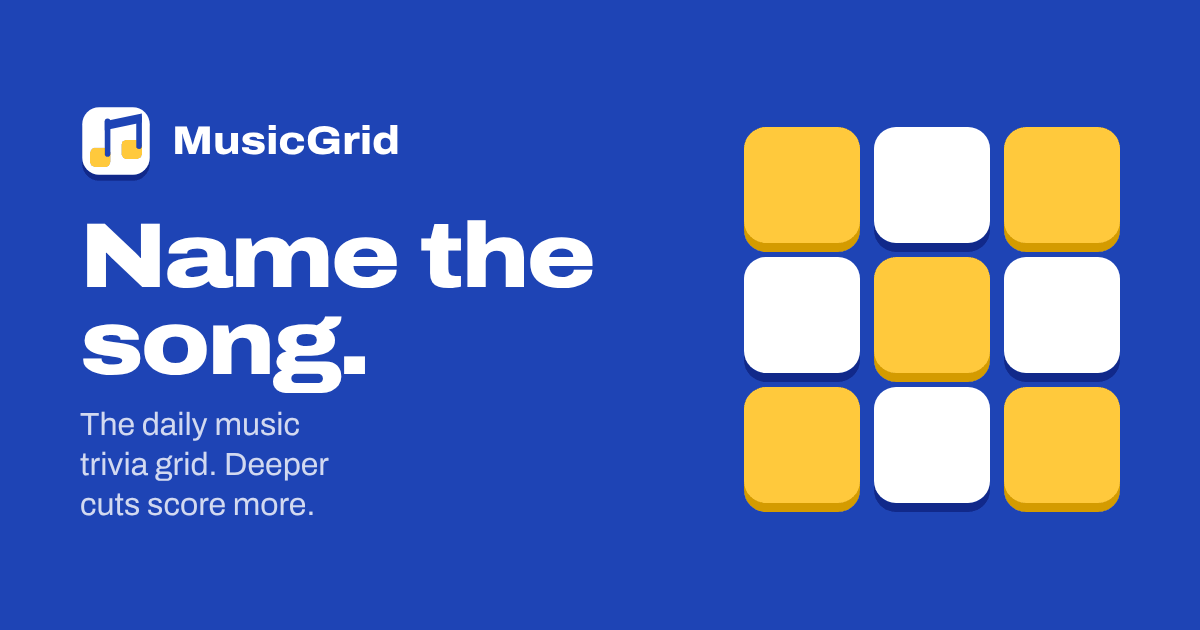
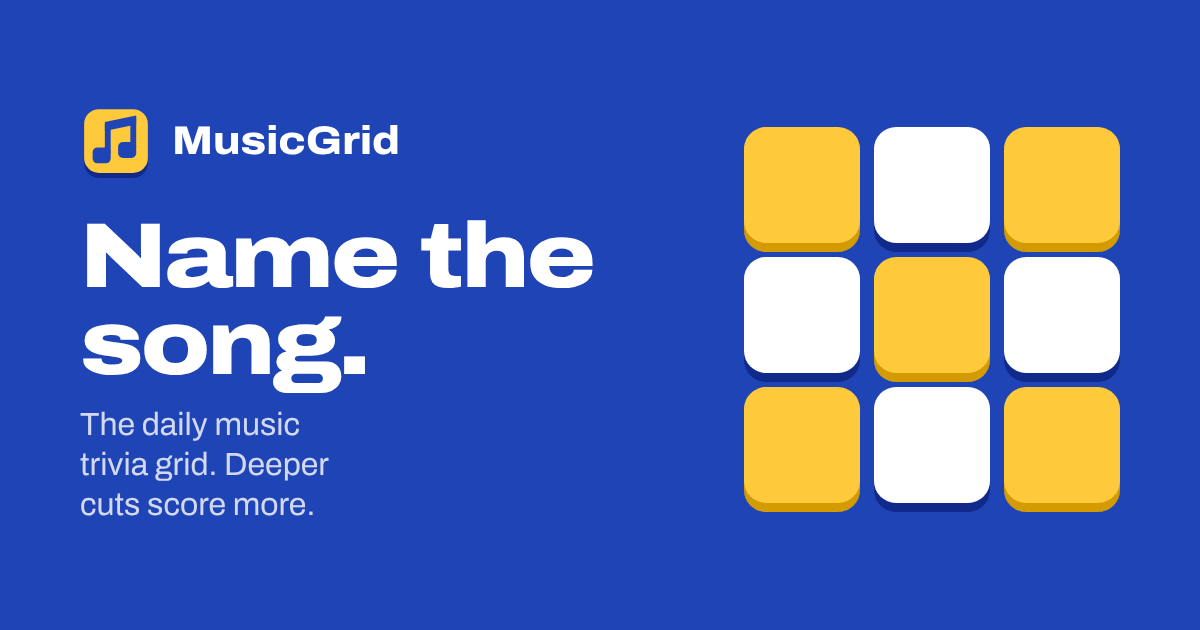
Add files via upload

Changed region(s): [[0.0617, 0.1508, 0.1233, 0.3016]]

diff --git a/index.html b/index.html
@@ -6,28 +6,28 @@
   <title>MusicGrid | The daily music trivia grid</title>
   <meta name="description" content="A daily music trivia game. Name a song for every square that fits both its artist and its category. Deeper cuts score more.">
   <meta name="theme-color" content="#1e44b5">
-  <link rel="icon" type="image/svg+xml" href="/img/logo.svg">
-  <link rel="icon" type="image/png" href="/img/favicon.png">
-  <link rel="apple-touch-icon" href="/img/apple-touch-icon.png">
+  <link rel="icon" href="/favicon.ico?v=2" sizes="32x32">
+  <link rel="icon" type="image/svg+xml" href="/img/logo.svg?v=2">
+  <link rel="apple-touch-icon" href="/img/apple-touch-icon.png?v=2">
   <link rel="preload" href="/fonts/archivo-latin.woff" as="font" type="font/woff" crossorigin>
   <link rel="preconnect" href="https://music-grid-io-42616e204fd3.herokuapp.com" crossorigin>
-  <link rel="stylesheet" href="/css/mg.css?v=2026102712">
+  <link rel="stylesheet" href="/css/mg.css?v=2026102713">
 
   <meta property="og:type" content="website">
   <meta property="og:url" content="https://musicgrid.stevenhester.com/">
   <meta property="og:title" content="MusicGrid">
   <meta property="og:description" content="The daily music trivia grid. Name a song for every square. Deeper cuts score more.">
-  <meta property="og:image" content="https://musicgrid.stevenhester.com/img/og-card.png">
+  <meta property="og:image" content="https://musicgrid.stevenhester.com/img/og-card.png?v=2">
   <meta name="twitter:card" content="summary_large_image">
   <meta name="twitter:title" content="MusicGrid">
   <meta name="twitter:description" content="The daily music trivia grid. Name a song for every square. Deeper cuts score more.">
-  <meta name="twitter:image" content="https://musicgrid.stevenhester.com/img/og-card.png">
+  <meta name="twitter:image" content="https://musicgrid.stevenhester.com/img/og-card.png?v=2">
 </head>
 <body data-mode="daily">
   <a class="skip" href="#board">Skip to the grid</a>
 
   <header class="topbar">
-    <a class="brand" href="/"><img src="/img/logo.svg" width="32" height="32" alt=""><span>MusicGrid</span></a>
+    <a class="brand" href="/"><img src="/img/logo.svg?v=2" width="32" height="32" alt=""><span>MusicGrid</span></a>
     <nav class="topnav" aria-label="Main">
       <a href="/" aria-current="page">Today</a>
       <a href="/browse">Browse</a>
@@ -183,6 +183,6 @@
   <div class="miss-flash" id="missFlash" aria-hidden="true"></div>
   <div class="sr-only" id="announcer" aria-live="assertive"></div>
 
-  <script type="module" src="/js/grid-game.js?v=2026102712"></script>
+  <script type="module" src="/js/grid-game.js?v=2026102713"></script>
 </body>
 </html>

diff --git a/play-custom-grid.html b/play-custom-grid.html
@@ -6,28 +6,28 @@
   <title>Custom grid | MusicGrid</title>
   <meta name="description" content="Your friend loves you so much they sent you their custom MusicGrid.">
   <meta name="theme-color" content="#1e44b5">
-  <link rel="icon" type="image/svg+xml" href="/img/logo.svg">
-  <link rel="icon" type="image/png" href="/img/favicon.png">
-  <link rel="apple-touch-icon" href="/img/apple-touch-icon.png">
+  <link rel="icon" href="/favicon.ico?v=2" sizes="32x32">
+  <link rel="icon" type="image/svg+xml" href="/img/logo.svg?v=2">
+  <link rel="apple-touch-icon" href="/img/apple-touch-icon.png?v=2">
   <link rel="preload" href="/fonts/archivo-latin.woff" as="font" type="font/woff" crossorigin>
   <link rel="preconnect" href="https://music-grid-io-42616e204fd3.herokuapp.com" crossorigin>
-  <link rel="stylesheet" href="/css/mg.css?v=2026102712">
+  <link rel="stylesheet" href="/css/mg.css?v=2026102713">
 
   <meta property="og:type" content="website">
   <meta property="og:url" content="https://musicgrid.stevenhester.com/play-custom-grid">
   <meta property="og:title" content="Custom MusicGrid">
   <meta property="og:description" content="Your friend loves you so much they sent you their custom MusicGrid.">
-  <meta property="og:image" content="https://musicgrid.stevenhester.com/img/og-card.png">
+  <meta property="og:image" content="https://musicgrid.stevenhester.com/img/og-card.png?v=2">
   <meta name="twitter:card" content="summary_large_image">
   <meta name="twitter:title" content="Custom MusicGrid">
   <meta name="twitter:description" content="Your friend loves you so much they sent you their custom MusicGrid.">
-  <meta name="twitter:image" content="https://musicgrid.stevenhester.com/img/og-card.png">
+  <meta name="twitter:image" content="https://musicgrid.stevenhester.com/img/og-card.png?v=2">
 </head>
 <body data-mode="custom">
   <a class="skip" href="#board">Skip to the grid</a>
 
   <header class="topbar">
-    <a class="brand" href="/"><img src="/img/logo.svg" width="32" height="32" alt=""><span>MusicGrid</span></a>
+    <a class="brand" href="/"><img src="/img/logo.svg?v=2" width="32" height="32" alt=""><span>MusicGrid</span></a>
     <nav class="topnav" aria-label="Main">
       <a href="/">Today</a>
       <a href="/browse">Browse</a>
@@ -197,6 +197,6 @@
   <div class="miss-flash" id="missFlash" aria-hidden="true"></div>
   <div class="sr-only" id="announcer" aria-live="assertive"></div>
 
-  <script type="module" src="/js/grid-game.js?v=2026102712"></script>
+  <script type="module" src="/js/grid-game.js?v=2026102713"></script>
 </body>
 </html>

diff --git a/grid-builder/apple-music.html b/grid-builder/apple-music.html
@@ -6,15 +6,15 @@
   <title>Connect Apple Music | MusicGrid</title>
   <meta name="description" content="Connect Apple Music to build a MusicGrid from the artists you listen to most.">
   <meta name="theme-color" content="#1e44b5">
-  <link rel="icon" type="image/svg+xml" href="/img/logo.svg">
-  <link rel="icon" type="image/png" href="/img/favicon.png">
-  <link rel="apple-touch-icon" href="/img/apple-touch-icon.png">
+  <link rel="icon" href="/favicon.ico?v=2" sizes="32x32">
+  <link rel="icon" type="image/svg+xml" href="/img/logo.svg?v=2">
+  <link rel="apple-touch-icon" href="/img/apple-touch-icon.png?v=2">
   <link rel="preload" href="/fonts/archivo-latin.woff" as="font" type="font/woff" crossorigin>
-  <link rel="stylesheet" href="/css/mg.css?v=2026102712">
+  <link rel="stylesheet" href="/css/mg.css?v=2026102713">
 </head>
 <body>
   <header class="topbar">
-    <a class="brand" href="/"><img src="/img/logo.svg" width="32" height="32" alt=""><span>MusicGrid</span></a>
+    <a class="brand" href="/"><img src="/img/logo.svg?v=2" width="32" height="32" alt=""><span>MusicGrid</span></a>
     <nav class="topnav" aria-label="Main">
       <a href="/">Today</a>
       <a href="/browse">Browse</a>
@@ -42,6 +42,6 @@
   <footer class="foot">
     MusicGrid is made by <a href="https://www.stevenhester.com">Steven Hester</a> &amp; Andrew McWhorter. Song data from Spotify. Apple Music is a trademark of Apple Inc.
   </footer>
-  <script src="/js/gb-appleMusic.js?v=2026102712" type="module"></script>
+  <script src="/js/gb-appleMusic.js?v=2026102713" type="module"></script>
 </body>
 </html>

diff --git a/grid-builder/manual-artist-pick.html b/grid-builder/manual-artist-pick.html
@@ -6,15 +6,15 @@
   <title>Pick your artists | MusicGrid</title>
   <meta name="description" content="Pick any artists and build a custom MusicGrid to send to your friends. No Spotify account needed.">
   <meta name="theme-color" content="#1e44b5">
-  <link rel="icon" type="image/svg+xml" href="/img/logo.svg">
-  <link rel="icon" type="image/png" href="/img/favicon.png">
-  <link rel="apple-touch-icon" href="/img/apple-touch-icon.png">
+  <link rel="icon" href="/favicon.ico?v=2" sizes="32x32">
+  <link rel="icon" type="image/svg+xml" href="/img/logo.svg?v=2">
+  <link rel="apple-touch-icon" href="/img/apple-touch-icon.png?v=2">
   <link rel="preload" href="/fonts/archivo-latin.woff" as="font" type="font/woff" crossorigin>
-  <link rel="stylesheet" href="/css/mg.css?v=2026102712">
+  <link rel="stylesheet" href="/css/mg.css?v=2026102713">
 </head>
 <body data-source="search">
   <header class="topbar">
-    <a class="brand" href="/"><img src="/img/logo.svg" width="32" height="32" alt=""><span>MusicGrid</span></a>
+    <a class="brand" href="/"><img src="/img/logo.svg?v=2" width="32" height="32" alt=""><span>MusicGrid</span></a>
     <nav class="topnav" aria-label="Main">
       <a href="/">Today</a>
       <a href="/browse">Browse</a>
@@ -137,6 +137,6 @@
   <footer class="foot">
     MusicGrid is made by <a href="https://www.stevenhester.com">Steven Hester</a> &amp; Andrew McWhorter. Song data from Spotify.
   </footer>
-  <script src="/js/gb-artistSelect.js?v=2026102712"></script>
+  <script src="/js/gb-artistSelect.js?v=2026102713"></script>
 </body>
 </html>

diff --git a/browse.html b/browse.html
@@ -6,15 +6,15 @@
   <title>Browse grids | MusicGrid</title>
   <meta name="description" content="Play past MusicGrid daily grids and grids built by other players.">
   <meta name="theme-color" content="#1e44b5">
-  <link rel="icon" type="image/svg+xml" href="/img/logo.svg">
-  <link rel="icon" type="image/png" href="/img/favicon.png">
-  <link rel="apple-touch-icon" href="/img/apple-touch-icon.png">
+  <link rel="icon" href="/favicon.ico?v=2" sizes="32x32">
+  <link rel="icon" type="image/svg+xml" href="/img/logo.svg?v=2">
+  <link rel="apple-touch-icon" href="/img/apple-touch-icon.png?v=2">
   <link rel="preload" href="/fonts/archivo-latin.woff" as="font" type="font/woff" crossorigin>
-  <link rel="stylesheet" href="/css/mg.css?v=2026102712">
+  <link rel="stylesheet" href="/css/mg.css?v=2026102713">
 </head>
 <body>
   <header class="topbar">
-    <a class="brand" href="/"><img src="/img/logo.svg" width="32" height="32" alt=""><span>MusicGrid</span></a>
+    <a class="brand" href="/"><img src="/img/logo.svg?v=2" width="32" height="32" alt=""><span>MusicGrid</span></a>
     <nav class="topnav" aria-label="Main">
       <a href="/">Today</a>
       <a href="/browse" aria-current="page">Browse</a>
@@ -50,6 +50,6 @@
   <footer class="foot">
     MusicGrid is made by <a href="https://www.stevenhester.com">Steven Hester</a> &amp; Andrew McWhorter. Song data from Spotify.
   </footer>
-  <script type="module" src="/js/browse.js?v=2026102712"></script>
+  <script type="module" src="/js/browse.js?v=2026102713"></script>
 </body>
 </html>

diff --git a/grid-builder/spotify-login.html b/grid-builder/spotify-login.html
@@ -6,15 +6,15 @@
   <title>Connect Spotify | MusicGrid</title>
   <meta name="description" content="Connect Spotify to build a MusicGrid from your top artists.">
   <meta name="theme-color" content="#1e44b5">
-  <link rel="icon" type="image/svg+xml" href="/img/logo.svg">
-  <link rel="icon" type="image/png" href="/img/favicon.png">
-  <link rel="apple-touch-icon" href="/img/apple-touch-icon.png">
+  <link rel="icon" href="/favicon.ico?v=2" sizes="32x32">
+  <link rel="icon" type="image/svg+xml" href="/img/logo.svg?v=2">
+  <link rel="apple-touch-icon" href="/img/apple-touch-icon.png?v=2">
   <link rel="preload" href="/fonts/archivo-latin.woff" as="font" type="font/woff" crossorigin>
-  <link rel="stylesheet" href="/css/mg.css?v=2026102712">
+  <link rel="stylesheet" href="/css/mg.css?v=2026102713">
 </head>
 <body>
   <header class="topbar">
-    <a class="brand" href="/"><img src="/img/logo.svg" width="32" height="32" alt=""><span>MusicGrid</span></a>
+    <a class="brand" href="/"><img src="/img/logo.svg?v=2" width="32" height="32" alt=""><span>MusicGrid</span></a>
     <nav class="topnav" aria-label="Main">
       <a href="/">Today</a>
       <a href="/browse">Browse</a>
@@ -82,6 +82,6 @@
   <footer class="foot">
     MusicGrid is made by <a href="https://www.stevenhester.com">Steven Hester</a> &amp; Andrew McWhorter. Song data from Spotify.
   </footer>
-  <script src="/js/gb-spotifyLogin.js?v=2026102712" type="module"></script>
+  <script src="/js/gb-spotifyLogin.js?v=2026102713" type="module"></script>
 </body>
 </html>

diff --git a/stats.html b/stats.html
@@ -6,15 +6,15 @@
   <title>Your stats | MusicGrid</title>
   <meta name="description" content="Your MusicGrid streak, best score, perfect squares and every grid you've played.">
   <meta name="theme-color" content="#1e44b5">
-  <link rel="icon" type="image/svg+xml" href="/img/logo.svg">
-  <link rel="icon" type="image/png" href="/img/favicon.png">
-  <link rel="apple-touch-icon" href="/img/apple-touch-icon.png">
+  <link rel="icon" href="/favicon.ico?v=2" sizes="32x32">
+  <link rel="icon" type="image/svg+xml" href="/img/logo.svg?v=2">
+  <link rel="apple-touch-icon" href="/img/apple-touch-icon.png?v=2">
   <link rel="preload" href="/fonts/archivo-latin.woff" as="font" type="font/woff" crossorigin>
-  <link rel="stylesheet" href="/css/mg.css?v=2026102712">
+  <link rel="stylesheet" href="/css/mg.css?v=2026102713">
 </head>
 <body>
   <header class="topbar">
-    <a class="brand" href="/"><img src="/img/logo.svg" width="32" height="32" alt=""><span>MusicGrid</span></a>
+    <a class="brand" href="/"><img src="/img/logo.svg?v=2" width="32" height="32" alt=""><span>MusicGrid</span></a>
     <nav class="topnav" aria-label="Main">
       <a href="/">Today</a>
       <a href="/browse">Browse</a>
@@ -104,6 +104,6 @@
   <footer class="foot">
     MusicGrid is made by <a href="https://www.stevenhester.com">Steven Hester</a> &amp; Andrew McWhorter. Song data from Spotify.
   </footer>
-  <script type="module" src="/js/stats.js?v=2026102712"></script>
+  <script type="module" src="/js/stats.js?v=2026102713"></script>
 </body>
 </html>

diff --git a/grid-builder/artist-selection.html b/grid-builder/artist-selection.html
@@ -6,15 +6,15 @@
   <title>Build your grid | MusicGrid</title>
   <meta name="description" content="Rank your Spotify top artists and build a custom MusicGrid.">
   <meta name="theme-color" content="#1e44b5">
-  <link rel="icon" type="image/svg+xml" href="/img/logo.svg">
-  <link rel="icon" type="image/png" href="/img/favicon.png">
-  <link rel="apple-touch-icon" href="/img/apple-touch-icon.png">
+  <link rel="icon" href="/favicon.ico?v=2" sizes="32x32">
+  <link rel="icon" type="image/svg+xml" href="/img/logo.svg?v=2">
+  <link rel="apple-touch-icon" href="/img/apple-touch-icon.png?v=2">
   <link rel="preload" href="/fonts/archivo-latin.woff" as="font" type="font/woff" crossorigin>
-  <link rel="stylesheet" href="/css/mg.css?v=2026102712">
+  <link rel="stylesheet" href="/css/mg.css?v=2026102713">
 </head>
 <body>
   <header class="topbar">
-    <a class="brand" href="/"><img src="/img/logo.svg" width="32" height="32" alt=""><span>MusicGrid</span></a>
+    <a class="brand" href="/"><img src="/img/logo.svg?v=2" width="32" height="32" alt=""><span>MusicGrid</span></a>
     <nav class="topnav" aria-label="Main">
       <a href="/">Today</a>
       <a href="/browse">Browse</a>
@@ -145,6 +145,6 @@
   <footer class="foot">
     MusicGrid is made by <a href="https://www.stevenhester.com">Steven Hester</a> &amp; Andrew McWhorter. Song data from Spotify.
   </footer>
-  <script src="/js/gb-artistSelect.js?v=2026102712"></script>
+  <script src="/js/gb-artistSelect.js?v=2026102713"></script>
 </body>
 </html>

diff --git a/grid-builder/index.html b/grid-builder/index.html
@@ -6,15 +6,15 @@
   <title>Build a grid | MusicGrid</title>
   <meta name="description" content="Build a custom MusicGrid from your Spotify top artists and send it to your friends.">
   <meta name="theme-color" content="#1e44b5">
-  <link rel="icon" type="image/svg+xml" href="/img/logo.svg">
-  <link rel="icon" type="image/png" href="/img/favicon.png">
-  <link rel="apple-touch-icon" href="/img/apple-touch-icon.png">
+  <link rel="icon" href="/favicon.ico?v=2" sizes="32x32">
+  <link rel="icon" type="image/svg+xml" href="/img/logo.svg?v=2">
+  <link rel="apple-touch-icon" href="/img/apple-touch-icon.png?v=2">
   <link rel="preload" href="/fonts/archivo-latin.woff" as="font" type="font/woff" crossorigin>
-  <link rel="stylesheet" href="/css/mg.css?v=2026102712">
+  <link rel="stylesheet" href="/css/mg.css?v=2026102713">
 </head>
 <body>
   <header class="topbar">
-    <a class="brand" href="/"><img src="/img/logo.svg" width="32" height="32" alt=""><span>MusicGrid</span></a>
+    <a class="brand" href="/"><img src="/img/logo.svg?v=2" width="32" height="32" alt=""><span>MusicGrid</span></a>
     <nav class="topnav" aria-label="Main">
       <a href="/">Today</a>
       <a href="/browse">Browse</a>

diff --git a/404.html b/404.html
@@ -6,15 +6,15 @@
   <title>Page not found | MusicGrid</title>
   <meta name="description" content="This page doesn't exist.">
   <meta name="theme-color" content="#1e44b5">
-  <link rel="icon" type="image/svg+xml" href="/img/logo.svg">
-  <link rel="icon" type="image/png" href="/img/favicon.png">
-  <link rel="apple-touch-icon" href="/img/apple-touch-icon.png">
+  <link rel="icon" href="/favicon.ico?v=2" sizes="32x32">
+  <link rel="icon" type="image/svg+xml" href="/img/logo.svg?v=2">
+  <link rel="apple-touch-icon" href="/img/apple-touch-icon.png?v=2">
   <link rel="preload" href="/fonts/archivo-latin.woff" as="font" type="font/woff" crossorigin>
-  <link rel="stylesheet" href="/css/mg.css?v=2026102712">
+  <link rel="stylesheet" href="/css/mg.css?v=2026102713">
 </head>
 <body>
   <header class="topbar">
-    <a class="brand" href="/"><img src="/img/logo.svg" width="32" height="32" alt=""><span>MusicGrid</span></a>
+    <a class="brand" href="/"><img src="/img/logo.svg?v=2" width="32" height="32" alt=""><span>MusicGrid</span></a>
     <nav class="topnav" aria-label="Main">
       <a href="/">Today</a>
       <a href="/browse">Browse</a>

diff --git a/js/stats.js b/js/stats.js
@@ -84,11 +84,13 @@ function cellOrder(a, b) {
   return ca.localeCompare(cb, undefined, { numeric: true }) || aa.localeCompare(ab, undefined, { numeric: true });
 }
 
+// Same shades as the share text; a square solved in easy mode is a circle
 function shade(cell) {
   if (cell.status === "solved") {
-    if (cell.points >= 10) return "deep";
-    if (cell.points >= 8) return "on";
-    return "easy";
+    const ez = cell.easy ? " ez" : "";
+    if (cell.points >= 10) return `deep${ez}`;
+    if (cell.points >= 8) return `on${ez}`;
+    return `low${ez}`;
   }
   return cell.misses.length ? "miss" : "";
 }
@@ -104,6 +106,7 @@ function parseGame(mode, id, state) {
       key: k,
       status: cell.status,
       points: Number(cell.points) || 0,
+      easy: Boolean(cell.easy),
       misses: Array.isArray(cell.misses) ? cell.misses : []
     };
   });

diff --git a/js/grid-game.js b/js/grid-game.js
@@ -911,8 +911,9 @@ function renderEndPanel() {
   game.categories.forEach(category => {
     game.artists.forEach(artist => {
       const cell = game.state.cells[cellKey(category, artist)];
-      const shade = cell.status === "solved" ? (cell.points >= 10 ? "deep" : cell.points >= 8 ? "on" : "easy") : (cell.misses.length ? "miss" : "");
-      mini.append(el("i", { class: shade }));
+      // Same shades as the share text; a square solved in easy mode is a circle
+      const shade = cell.status === "solved" ? (cell.points >= 10 ? "deep" : cell.points >= 8 ? "on" : "low") : (cell.misses.length ? "miss" : "");
+      mini.append(el("i", { class: `${shade}${cell.status === "solved" && cell.easy ? " ez" : ""}`.trim() }));
     });
   });
 
